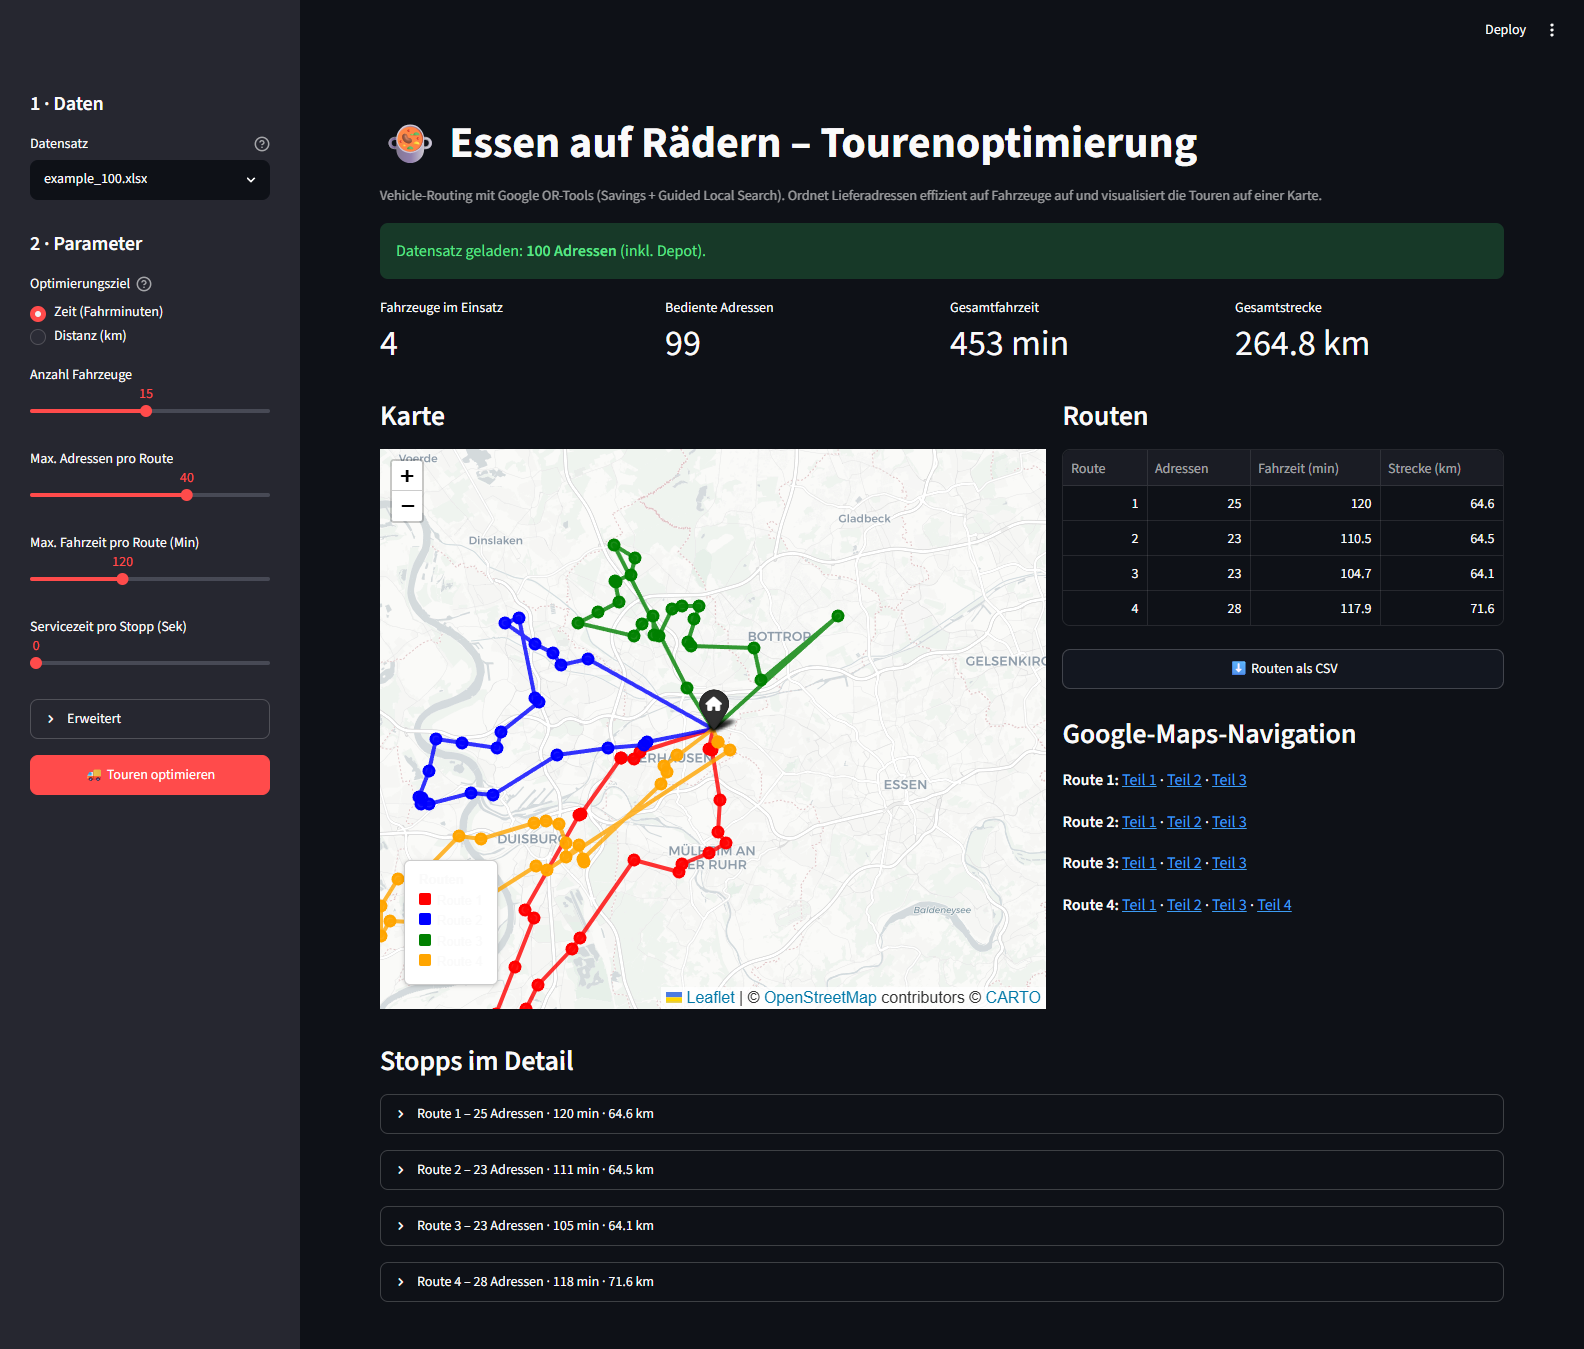
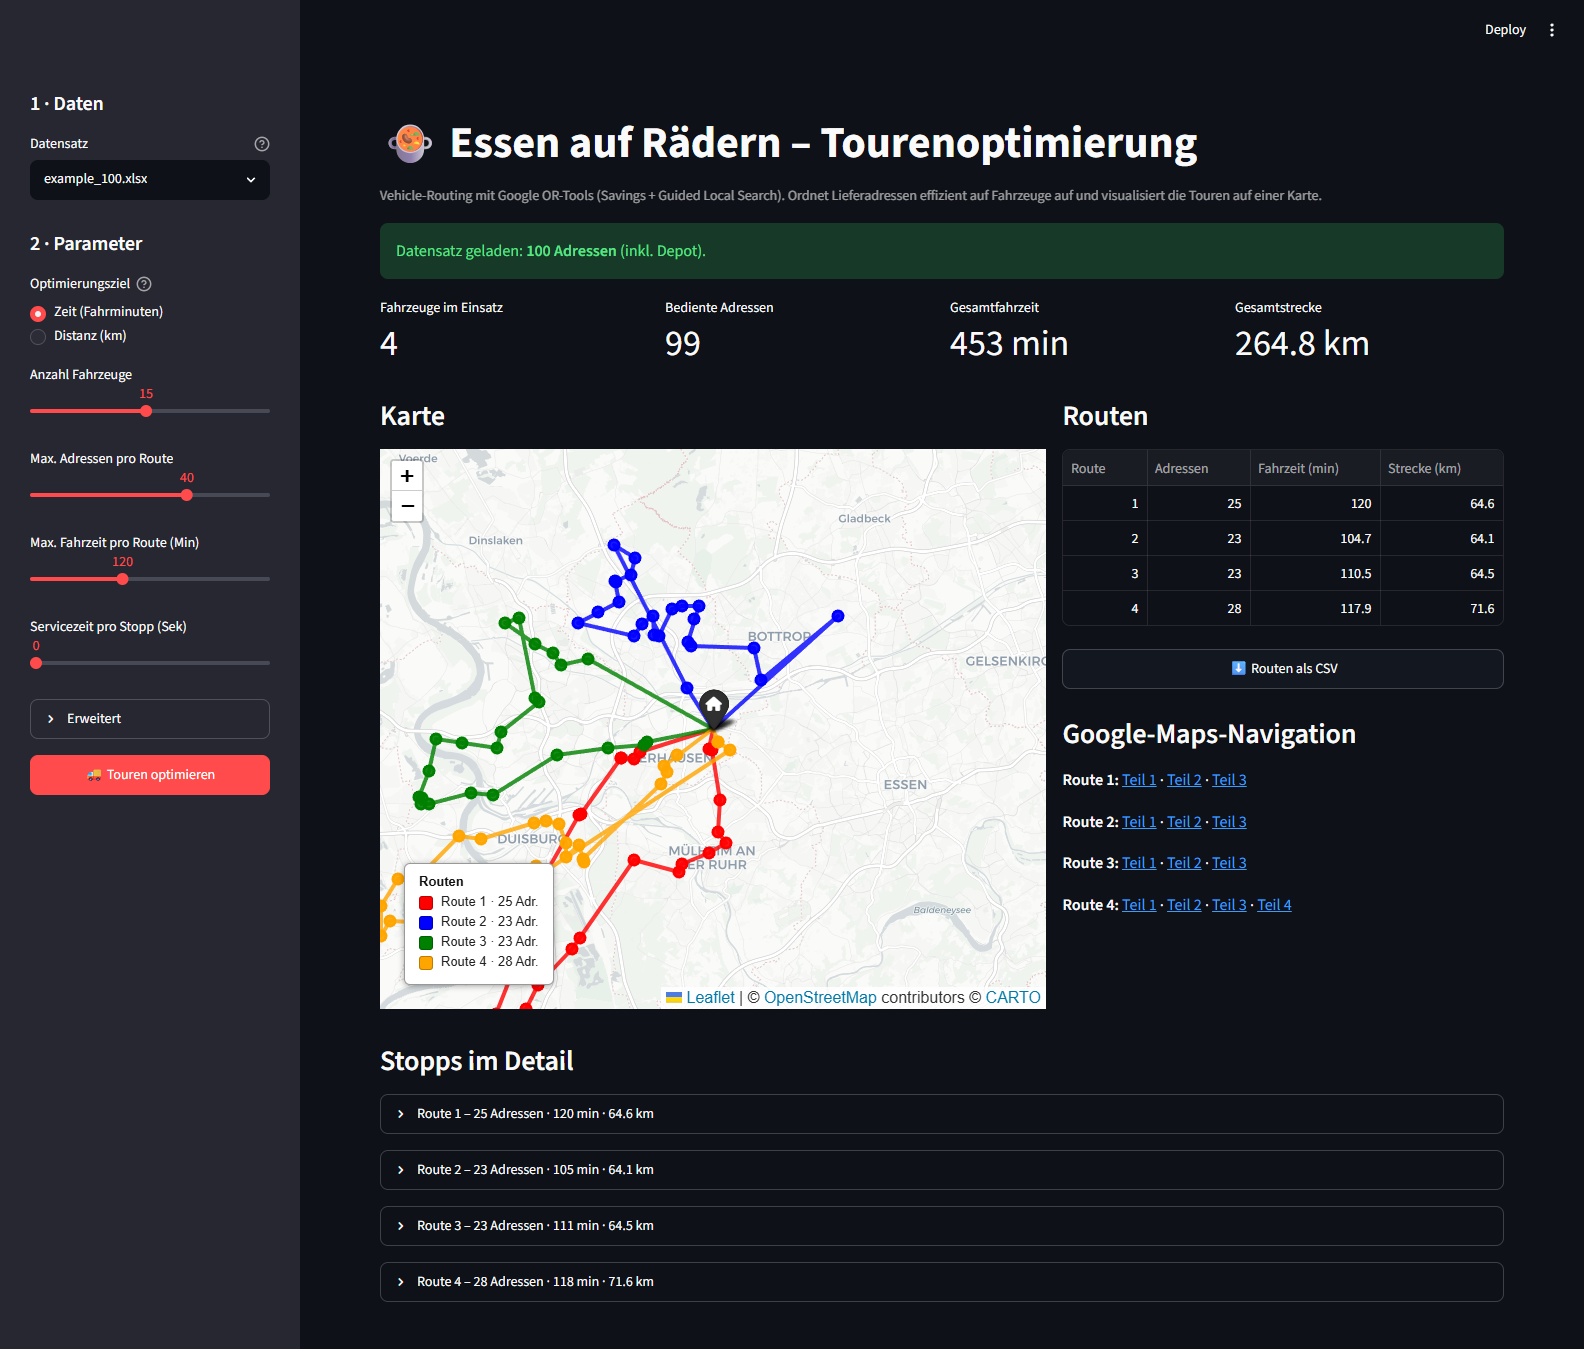
Legende lesbarer (dunkler Text + Adressanzahl); README: Abschnitt 'Ausgangslage & Vorgehen' mit Projektaufbau

Changed region(s): [[0.2475, 0.4047, 0.5259, 0.7472]]

diff --git a/mapping.py b/mapping.py
@@ -77,17 +77,21 @@ def build_map(routes: list[Route], osrm_url: str | None = None) -> folium.Map:
 
 def _add_legend(fmap: folium.Map, routes: list[Route]) -> None:
     rows = "".join(
-        f'<div style="margin:2px 0;">'
+        f'<div style="margin:3px 0;display:flex;align-items:center;color:#222;">'
         f'<span style="background:{ROUTE_COLORS[i % len(ROUTE_COLORS)]};'
-        f'width:12px;height:12px;display:inline-block;margin-right:6px;'
-        f'border-radius:2px;"></span>Route {r.vehicle}</div>'
+        f'width:14px;height:14px;display:inline-block;margin-right:8px;'
+        f'border-radius:3px;border:1px solid rgba(0,0,0,.25);"></span>'
+        f'Route {r.vehicle} · {r.num_addresses} Adr.</div>'
         for i, r in enumerate(routes)
     )
     html = (
         '<div style="position:fixed;bottom:24px;left:24px;z-index:9999;'
-        'background:white;padding:10px 14px;border:1px solid #ccc;'
-        'border-radius:6px;font-size:13px;box-shadow:0 1px 4px rgba(0,0,0,.2);">'
-        '<b>Routen</b>' + rows + "</div>"
+        'background:#ffffff;padding:10px 14px;border:1px solid #999;'
+        'border-radius:6px;font-size:13px;line-height:1.3;'
+        'color:#222;font-family:Arial,Helvetica,sans-serif;'
+        'box-shadow:0 1px 6px rgba(0,0,0,.35);">'
+        '<div style="font-weight:700;color:#111;margin-bottom:4px;">Routen</div>'
+        + rows + "</div>"
     )
     fmap.get_root().html.add_child(folium.Element(html))
 

diff --git a/README.md b/README.md
@@ -14,6 +14,30 @@ optimiert nach Fahrzeit.*
 
 ---
 
+## Ausgangslage & Vorgehen
+
+Gegeben war eine **Liste von Kundenadressen** (Straße, PLZ, Ort) des
+Lieferdienstes. Von dort bis zu den fertig optimierten Touren waren mehrere
+Schritte nötig – der Aufbau des Projekts:
+
+1. **Geokodierung** – Ein Skript fragt die **Google Geocoding API** ab und
+   wandelt jede Adresse in Koordinaten (Breiten-/Längengrad) um.
+   → [`scripts/geocode_google.py`](scripts/geocode_google.py)
+2. **Reisedaten via OSRM** – Ein selbst unter **Linux** aufgesetzter
+   **OSRM-Routing-Server** (auf Basis der OpenStreetMap-Deutschlandkarte)
+   liefert für **jedes Adresspaar** die reale **Strecke in Metern** und die
+   **Fahrzeit in Sekunden**.
+3. **Distanz- & Zeitmatrix** – Aus diesen Paar-Abfragen entstehen die beiden
+   n×n-Matrizen, die als Eingabe für die Optimierung dienen.
+   → [`scripts/build_matrix_osrm.py`](scripts/build_matrix_osrm.py)
+4. **Optimierung & Visualisierung** – Diese Web-App löst damit das
+   Vehicle-Routing-Problem (OR-Tools) und stellt die Touren auf einer Karte dar.
+
+Die Details zu jedem Schritt stehen weiter unten unter
+[**Datenpipeline**](#datenpipeline--woher-die-zeit--und-distanzmatrizen-kommen).
+
+---
+
 ## Was es macht
 
 - Löst ein **Vehicle-Routing-Problem (VRP)** mit Google **OR-Tools**